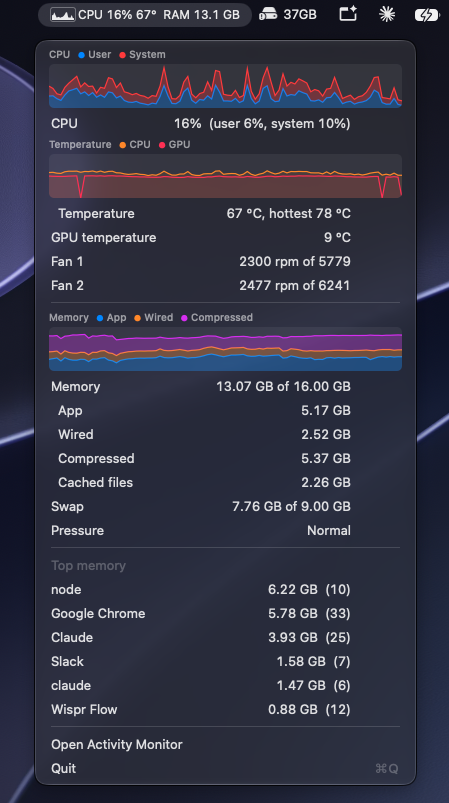
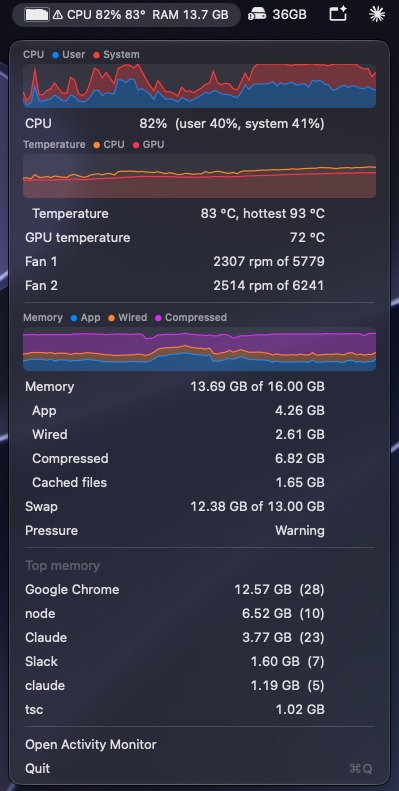
docs: update the README screenshot

Changed region(s): [[0.0, 0.0, 1.0, 1.0], [0.5714, 0.7282, 0.812, 0.9102], [0.9023, 0.6675, 0.9323, 0.6979]]

diff --git a/README.md b/README.md
@@ -1,7 +1,7 @@
 # MenuStats
 
 <p align="center">
-  <img src="docs/screenshot.png" alt="MenuStats in the menu bar with its dropdown open, showing CPU, temperature and memory graphs" width="449">
+  <img src="docs/screenshot.png" alt="MenuStats in the menu bar with its dropdown open, showing CPU, temperature and memory graphs" width="399">
 </p>
 
 A small macOS menu bar app showing CPU, memory, temperature and fan usage. It's plain AppKit with no dependencies and no Xcode project, and it uses about 1% CPU and 25 MB of memory.
